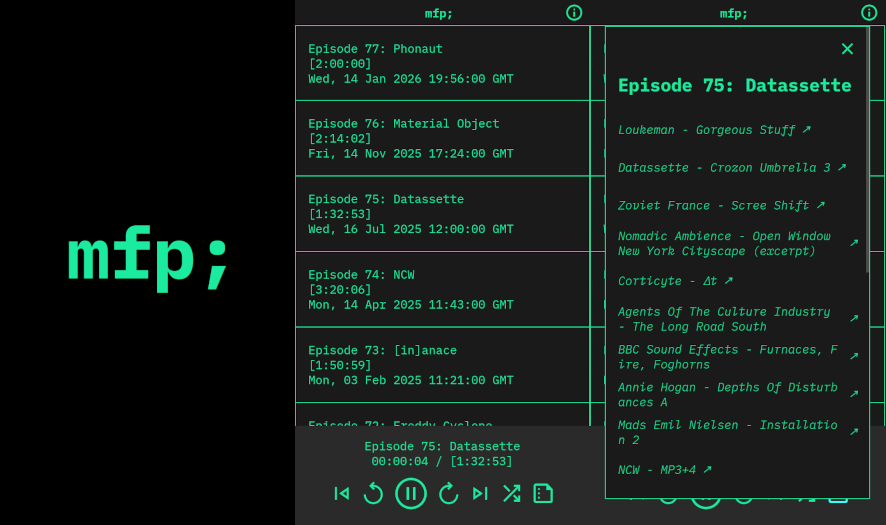
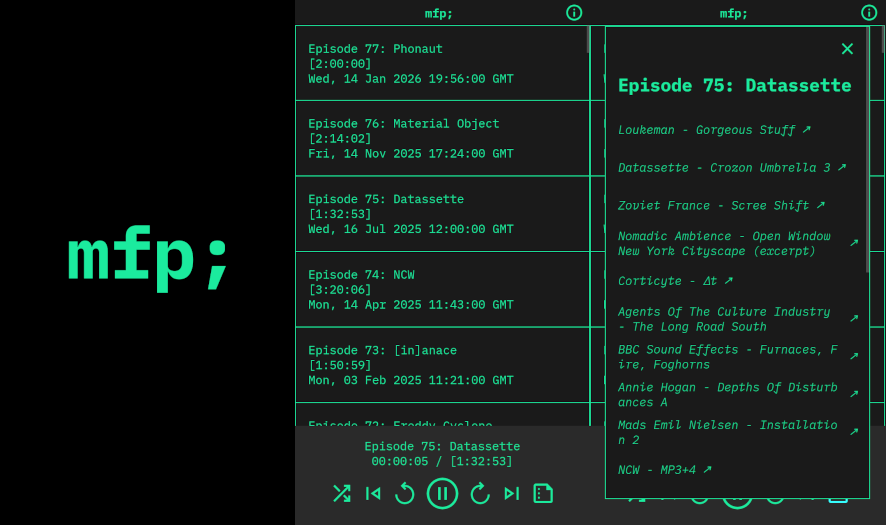
version to 1.2.6
Update player button layout.

Updated screenshot.

diff --git a/index.html b/index.html
@@ -905,6 +905,13 @@
 
         <div id="mini-player-controls">
 
+          <button id="mp-button-random">
+            <span class="material-symbols-outlined player-button small">
+              shuffle
+            </span>
+          </button>
+
+
           <button id="mp-button-skip-prev" class="player-controls-disabled">
             <span class="material-symbols-outlined player-button small">
               skip_previous
@@ -942,11 +949,6 @@
             </span>
           </button>
 
-          <button id="mp-button-random">
-            <span class="material-symbols-outlined player-button small">
-              shuffle
-            </span>
-          </button>
 
           <button id="mp-button-playlist" class="player-controls-disabled">
             <span class="material-symbols-outlined player-button small">

diff --git a/templates/index.html b/templates/index.html
@@ -145,6 +145,13 @@
 
         <div id="mini-player-controls">
 
+          <button id="mp-button-random">
+            <span class="material-symbols-outlined player-button small">
+              shuffle
+            </span>
+          </button>
+
+
           <button id="mp-button-skip-prev" class="player-controls-disabled">
             <span class="material-symbols-outlined player-button small">
               skip_previous
@@ -182,11 +189,6 @@
             </span>
           </button>
 
-          <button id="mp-button-random">
-            <span class="material-symbols-outlined player-button small">
-              shuffle
-            </span>
-          </button>
 
           <button id="mp-button-playlist" class="player-controls-disabled">
             <span class="material-symbols-outlined player-button small">

diff --git a/CHANGELOG.md b/CHANGELOG.md
@@ -1,5 +1,14 @@
 # Changelog
 
+## [1.2.6] - 2026-01-24
+
+### Changed
+
+- Adjusted player button layout
+- Update screenshot
+
+
+
 ## [1.2.5] - 2026-01-24
 
 ### Changed
